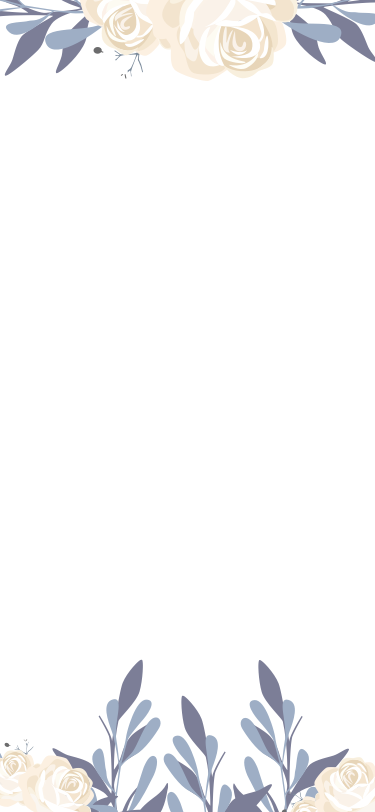
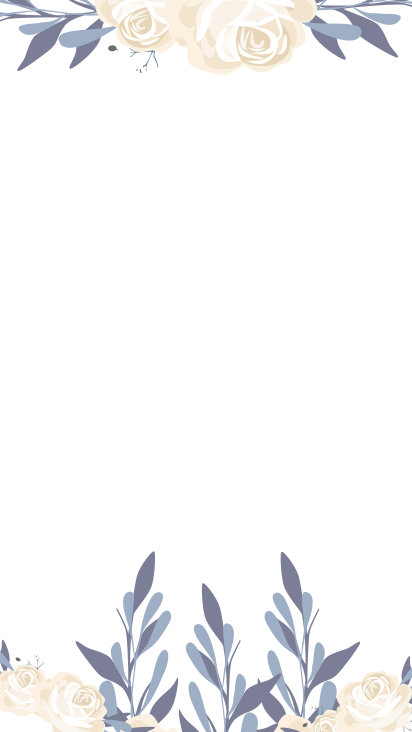
final login adjustments

diff --git a/pages/index.vue b/pages/index.vue
@@ -38,6 +38,9 @@ export default {
       particlesJS.load('particles-bg', '/config.json', function() {
         console.log('loaded')
       })
+      document.ontouchmove = function(e) {
+        e.preventDefault()
+      }
     },
     validateCode: function() {
       if (this.code.toUpperCase() === 'DINAGYANG') {
@@ -171,7 +174,9 @@ body {
 
   .login-container {
     background: url('~assets/images/mobile-bg.png');
-    background-size: 100% 100%;
+    background-size: auto 100%;
+    background-repeat: no-repeat;
+    background-position: center;
   }
   .login-container .login {
     height: 350px;
